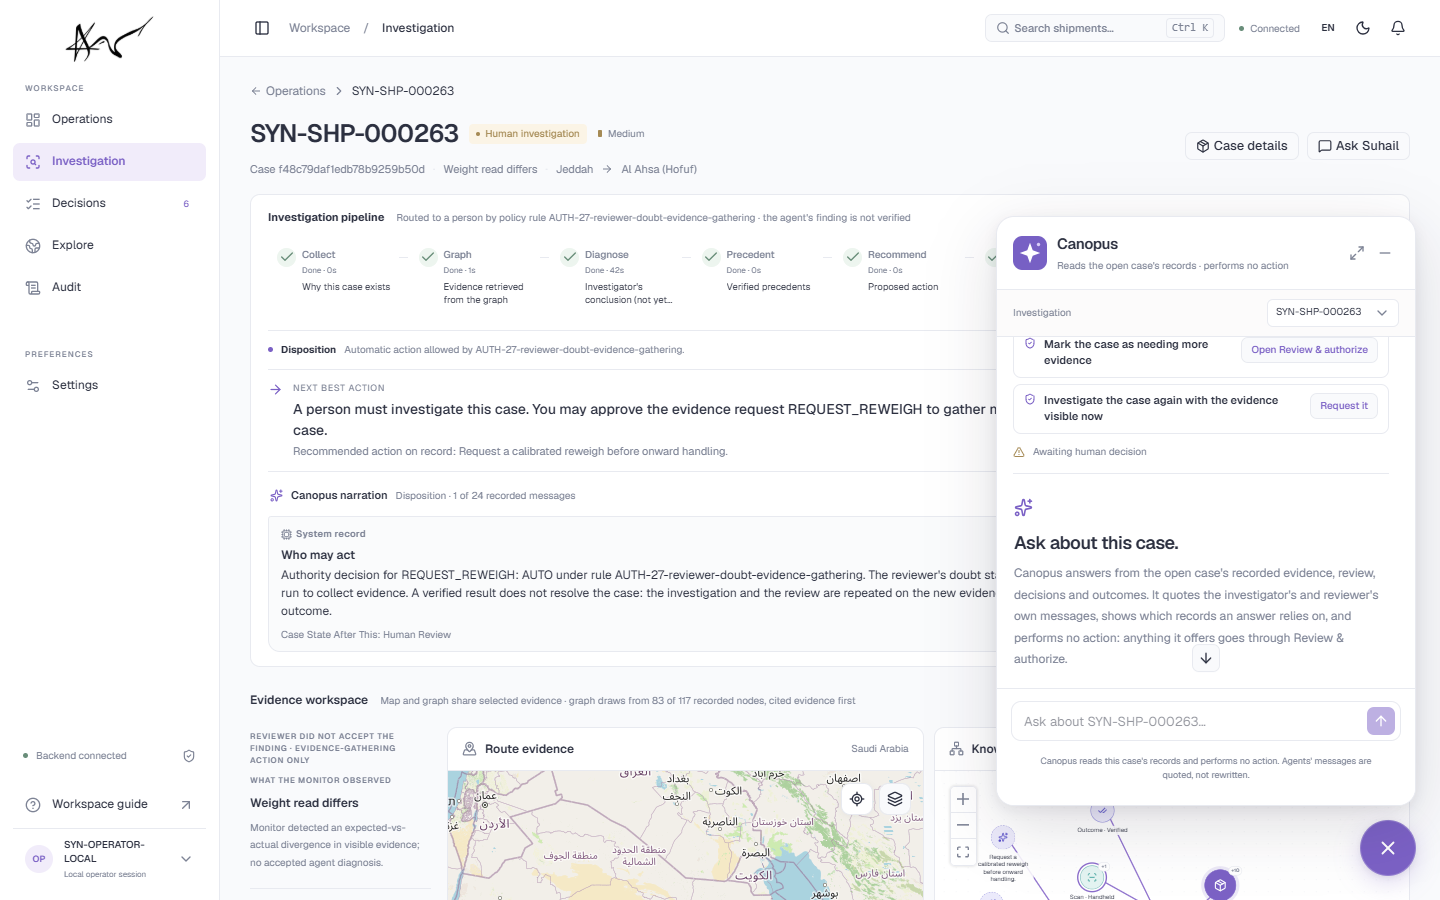
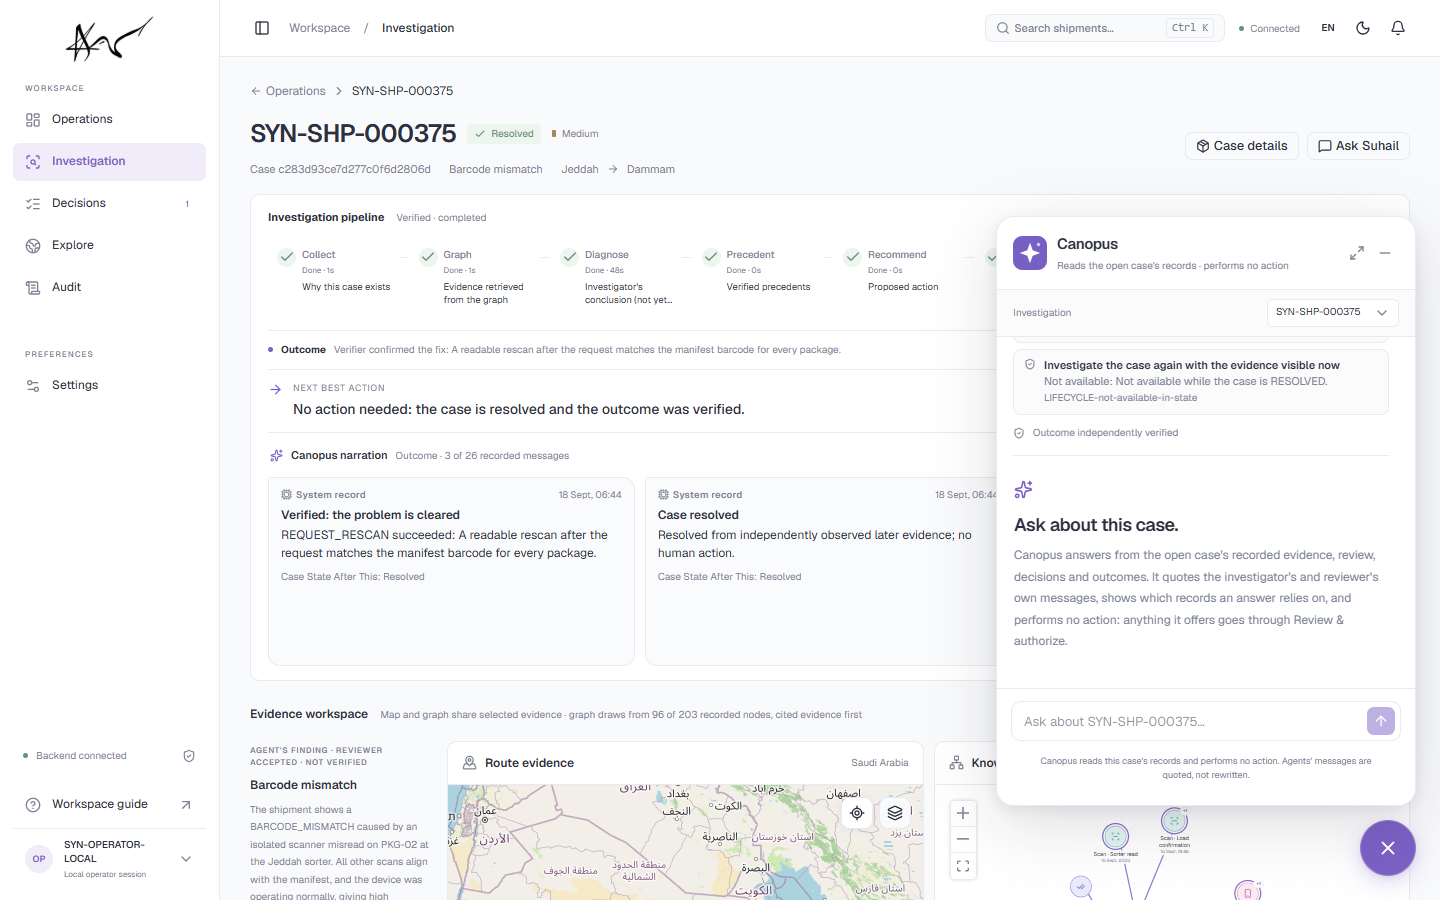
fix(frontend-next): an answer's graph button shows whenever it names graph records; manual-walk and question checks made race-free

diff --git a/frontend-next/tests/e2e-live/manual-walk.spec.ts b/frontend-next/tests/e2e-live/manual-walk.spec.ts
@@ -1,0 +1,195 @@
+import { expect, test, type APIRequestContext, type Page } from "@playwright/test";
+
+/**
+ * The operator's manual path on a session whose automatic worker is off: pick a waiting case
+ * on Operations, click Investigate now, watch the real run with its narration, inspect the
+ * evidence and the reviewer's decision, approve where the backend asks for it, watch execution
+ * and verification on the running clock, then ask Canopus. Writes to the session it runs on,
+ * so it needs SUHAIL_MANUAL_WALK=1 and is meant for the isolated backend only.
+ *
+ *   SUHAIL_LIVE_URL=http://127.0.0.1:8021 SUHAIL_MANUAL_WALK=1 npx playwright test \
+ *     --config playwright.live.config.ts manual-walk
+ */
+test.skip(process.env.SUHAIL_MANUAL_WALK !== "1", "set SUHAIL_MANUAL_WALK=1 (isolated backend)");
+test.skip(
+  /:8020\b/.test(process.env.SUHAIL_LIVE_URL ?? ""),
+  "never on the main backend: this walk starts investigations and approves",
+);
+const LIMIT = Number(process.env.SUHAIL_MANUAL_CASES ?? 3);
+test.setTimeout(40 * 60 * 1000);
+const shot = (name: string) => `screenshots/graph/manual-${name}.png`;
+
+interface Detail {
+  workflow_state: string;
+  shipment_id: string;
+  state_version: number;
+  recommendation: { approvable?: boolean; action_type?: string; action_en?: string } | null;
+  executions: { status: string; authority: string }[];
+  outcome: { verification_status: string; success: boolean | null; outcome_type: string; reason: string } | null;
+  review: { verdict?: string | null } | null;
+  narration: { events: { kind: string }[] } | null;
+  next_step: { code: string; text_en: string } | null;
+  run: { result: { authority?: { rule_id?: string } } } | null;
+}
+const read = async (request: APIRequestContext, id: string) =>
+  (await (await request.get(`/cases/${id}`)).json()) as Detail;
+const queue = async (request: APIRequestContext) =>
+  ((await (await request.get("/cases/queue?scope=all&limit=100")).json()) as {
+    items: { case_id: string; shipment_id: string; workflow_state: string }[];
+  }).items;
+
+async function askCanopus(page: Page, question: string) {
+  const panel = page.locator(".canopus-window");
+  if (!(await panel.isVisible().catch(() => false)))
+    await page.getByRole("button", { name: "Open Canopus assistant" }).click();
+  const before = await panel.getByTestId("canopus-answer").count();
+  await panel.getByRole("textbox", { name: "Ask Canopus about this case" }).fill(question);
+  await panel.getByRole("button", { name: "Send question" }).click();
+  await expect(panel.getByTestId("canopus-answer")).toHaveCount(before + 1, { timeout: 120000 });
+  return panel;
+}
+
+test("An operator selects a waiting case, investigates it, approves where asked, and asks Canopus", async ({
+  page,
+  request,
+}) => {
+  const errors: string[] = [];
+  page.on("pageerror", (error) => errors.push(error.message));
+  const status = await (await request.get("/worker/status")).json();
+  console.log(`worker ${status.worker.state}; clock ${status.simulator?.state} at speed ${status.simulator?.speed}`);
+  // 1. Operations lists the waiting exceptions; automatic investigation is off.
+  await page.goto("/app/operations");
+  await expect(page.locator(".environment-badge")).toHaveText("Connected", { timeout: 90000 });
+  await expect(page.getByRole("switch", { name: "Automatic investigation" })).not.toBeChecked();
+  await page.waitForTimeout(2500);
+  await page.screenshot({ path: shot("1-operations") });
+  const walked: string[] = [];
+  let approved: string | null = null;
+  for (let round = 0; round < LIMIT; round++) {
+    const waiting = (await queue(request)).filter(
+      (row) => row.workflow_state === "OPEN" && !walked.includes(row.case_id),
+    );
+    if (!waiting.length) break;
+    const row = waiting[0];
+    walked.push(row.case_id);
+    // 2. Select it.
+    await page.goto("/app/operations");
+    await page.getByRole("textbox", { name: "Search exception queue" }).fill(row.shipment_id);
+    await page.getByTestId(`data-row-${row.case_id}`).click();
+    await expect(page.getByRole("heading", { level: 1 })).toHaveText(row.shipment_id, {
+      timeout: 60000,
+    });
+    await expect(page.locator(".case-heading")).toContainText("Queued");
+    if (round === 0) await page.screenshot({ path: shot("2-selected"), fullPage: true });
+    // 3. Investigate, deliberately.
+    const started = Date.now();
+    await page.getByRole("button", { name: "Investigate now" }).click();
+    // 4. Watch the real run: stages and narration as they arrive.
+    const seen = new Set<string>();
+    let liveNarration = 0;
+    let captured = false;
+    for (;;) {
+      const detail = await read(request, row.case_id);
+      // No step is running once the run has ended: never wait for one.
+      const running = await page
+        .locator(".pipeline-step.state-running")
+        .first()
+        .getAttribute("aria-label", { timeout: 1000 })
+        .catch(() => null);
+      if (running) seen.add(running.split(" · ")[0]);
+      const told = await page.getByTestId("narration-bubble").count();
+      liveNarration = Math.max(liveNarration, told);
+      if (!captured && told >= 2 && detail.workflow_state === "INVESTIGATING") {
+        captured = true;
+        await page.screenshot({ path: shot(`3-investigating-${row.shipment_id}`), fullPage: true });
+      }
+      if (!/^(OPEN|REOPENED|INVESTIGATING)$/.test(detail.workflow_state)) break;
+      if (Date.now() - started > 10 * 60 * 1000) throw new Error("investigation did not finish");
+      await page.waitForTimeout(2000);
+    }
+    await page.waitForTimeout(6000);
+    let detail = await read(request, row.case_id);
+    console.log(
+      `${row.shipment_id}: investigated in ${Math.round((Date.now() - started) / 1000)} s -> ${detail.workflow_state}; rule ${detail.run?.result.authority?.rule_id}; review ${detail.review?.verdict}; steps seen running: ${[...seen].join(", ") || "none sampled"}; narration bubbles seen while running: ${liveNarration}; stored narration: ${detail.narration?.events.length ?? 0}; next: ${detail.next_step?.code}`,
+    );
+    await expect(page.getByTestId("next-step")).toContainText(detail.next_step!.text_en, {
+      timeout: 30000,
+    });
+    await page.screenshot({ path: shot(`4-investigated-${row.shipment_id}`), fullPage: true });
+    // 5. Inspect the evidence and the reviewer's decision.
+    await page.getByRole("button", { name: "Case details" }).click();
+    const sheet = page.getByRole("dialog");
+    if (detail.review?.verdict) await expect(sheet.getByTestId("review-rounds")).toBeVisible();
+    await page.keyboard.press("Escape");
+    await page.getByTestId("knowledge-graph").locator(".entity-node").nth(2).click();
+    await expect(page.getByTestId("evidence-inspector")).toBeVisible();
+    // 6. Approve an action where the backend asks for it.
+    if (!approved && detail.recommendation?.approvable && detail.workflow_state !== "AWAITING_OUTCOME") {
+      // Through Canopus's offer first, which only opens the existing dialog.
+      const panel = await askCanopus(page, "Can you request this evidence for me?");
+      const door = panel.getByRole("button", { name: "Open Review & authorize" }).last();
+      const viaOffer = (await door.count()) > 0;
+      if (viaOffer) await door.click();
+      else {
+        await panel.getByRole("button", { name: "Minimize Canopus conversation" }).click();
+        await page.getByRole("button", { name: "Review & authorize" }).click();
+      }
+      const dialog = page.getByRole("dialog").filter({ hasText: "Authorize action" });
+      await expect(dialog).toContainText(detail.recommendation.action_en!);
+      await page.screenshot({ path: shot(`5-approve-${row.shipment_id}`) });
+      await dialog.getByRole("button", { name: "Authorize action" }).click();
+      await expect(dialog).toHaveCount(0, { timeout: 60000 });
+      await expect
+        .poll(
+          async () =>
+            (await read(request, row.case_id)).executions.filter(
+              (item) => item.authority === "OPERATOR_APPROVAL",
+            ).length,
+          { timeout: 90000 },
+        )
+        .toBeGreaterThan(0);
+      detail = await read(request, row.case_id);
+      approved = row.case_id;
+      console.log(
+        `${row.shipment_id}: approved ${detail.recommendation?.action_type} ${viaOffer ? "through Canopus's offer and the dialog" : "through Review & authorize"} -> ${detail.workflow_state}; execution ${detail.executions[0].status}`,
+      );
+    }
+  }
+  expect(walked.length).toBeGreaterThan(0);
+  // 7. Execution and verification arrive on the running clock, for whichever case acted.
+  const acted: string[] = [];
+  for (const id of walked) if ((await read(request, id)).executions.length) acted.push(id);
+  const deadline = Date.now() + 8 * 60 * 1000;
+  const pending = new Set(acted);
+  while (pending.size && Date.now() < deadline) {
+    for (const id of [...pending]) {
+      const detail = await read(request, id);
+      if (detail.outcome || detail.workflow_state !== "AWAITING_OUTCOME") pending.delete(id);
+    }
+    await page.waitForTimeout(5000);
+  }
+  for (const id of walked) {
+    const detail = await read(request, id);
+    console.log(
+      `${detail.shipment_id}: final ${detail.workflow_state}; executions ${detail.executions.map((item) => `${item.status}/${item.authority}`).join(", ") || "none"}; outcome ${detail.outcome ? `${detail.outcome.verification_status} success ${detail.outcome.success} ${detail.outcome.outcome_type}` : "none"}`,
+    );
+  }
+  // 8. Ask Canopus what happened, on the case that went furthest.
+  const target = approved ?? acted[0] ?? walked[0];
+  const last = await read(request, target);
+  await page.goto(`/app/cases/${target}`);
+  await expect(page.getByRole("heading", { level: 1 })).toHaveText(last.shipment_id, {
+    timeout: 60000,
+  });
+  await expect(page.getByTestId("next-step")).toContainText(last.next_step!.text_en, {
+    timeout: 60000,
+  });
+  await page.screenshot({ path: shot(`6-outcome-${last.shipment_id}`), fullPage: true });
+  const panel = await askCanopus(page, "What happened on this case, and what was verified?");
+  console.log(
+    `Canopus on ${last.shipment_id}: ${(await panel.getByTestId("canopus-answer").last().innerText()).replace(/\s+/g, " ").slice(0, 500)}`,
+  );
+  console.log(`quotes shown: ${await panel.getByTestId("canopus-quote").count()}`);
+  await page.screenshot({ path: shot(`7-canopus-${last.shipment_id}`) });
+  expect(errors).toEqual([]);
+});

diff --git a/frontend-next/tests/e2e-live/canopus-ask.spec.ts b/frontend-next/tests/e2e-live/canopus-ask.spec.ts
@@ -19,11 +19,6 @@ test("Canopus answers from the case's records, quotes the agents, and lights the
   const nodeIds = new Set<string>(detail.evidence.nodes.map((node: { id: string }) => node.id));
   const errors: string[] = [];
   page.on("pageerror", (error) => errors.push(error.message));
-  const answers: Record<string, unknown>[] = [];
-  page.on("response", async (response) => {
-    if (response.url().endsWith("/canopus/ask") && response.ok())
-      answers.push(await response.json());
-  });
   await page.goto(`/app/cases/${CASE}`);
   await expect(page.getByRole("heading", { level: 1 })).toHaveText(detail.shipment_id, {
     timeout: 60000,
@@ -35,12 +30,18 @@ test("Canopus answers from the case's records, quotes the agents, and lights the
     const before = await panel.getByTestId("canopus-answer").count();
     const started = Date.now();
     await box.fill(question);
-    await panel.getByRole("button", { name: "Send question" }).click();
-    await expect(panel.locator(".ask-waiting")).toContainText("reading this case");
+    // The answer checked is the response to this question, not an earlier one.
+    const [response] = await Promise.all([
+      page.waitForResponse(
+        (item) => item.url().endsWith("/canopus/ask") && item.request().method() === "POST",
+        { timeout: 120000 },
+      ),
+      panel.getByRole("button", { name: "Send question" }).click(),
+    ]);
     await expect(panel.getByTestId("canopus-answer")).toHaveCount(before + 1, {
       timeout: 120000,
     });
-    const answer = answers.at(-1) as {
+    const answer = (await response.json()) as {
       kind: string;
       answer_en: string;
       workflow_state: string;
@@ -97,7 +98,10 @@ test("Canopus answers from the case's records, quotes the agents, and lights the
   // Records an answer relies on are lit in the graph, from its graph_node_ids only.
   const withIds = [first, second, third].find((item) => item.answer.graph_node_ids.length);
   if (withIds) {
-    await withIds.bubble.getByRole("button", { name: /records in the graph/ }).click();
+    console.log(`highlighting ${withIds.answer.graph_node_ids.length} records from an answer`);
+    await withIds.bubble
+      .getByRole("button", { name: /records in the graph/ })
+      .click({ timeout: 15000 });
     await panel.getByRole("button", { name: "Minimize Canopus conversation" }).click();
     await expect(
       page.getByTestId("knowledge-graph").locator(".evidence-path").first(),

diff --git a/frontend-next/src/components/canopus-ask.tsx b/frontend-next/src/components/canopus-ask.tsx
@@ -187,7 +187,8 @@ export function CanopusAskThread({ c }: { c: OperationalCase }) {
                       .replaceAll("_", " ")
                       .toLowerCase()}
                   </span>
-                  {turn.answer.evidenceIds.length > 0 && (
+                  {(turn.answer.evidenceIds.length > 0 ||
+                    turn.answer.graphNodeIds.length > 0) && (
                     <button
                       type="button"
                       disabled={!turn.answer.graphNodeIds.length}
